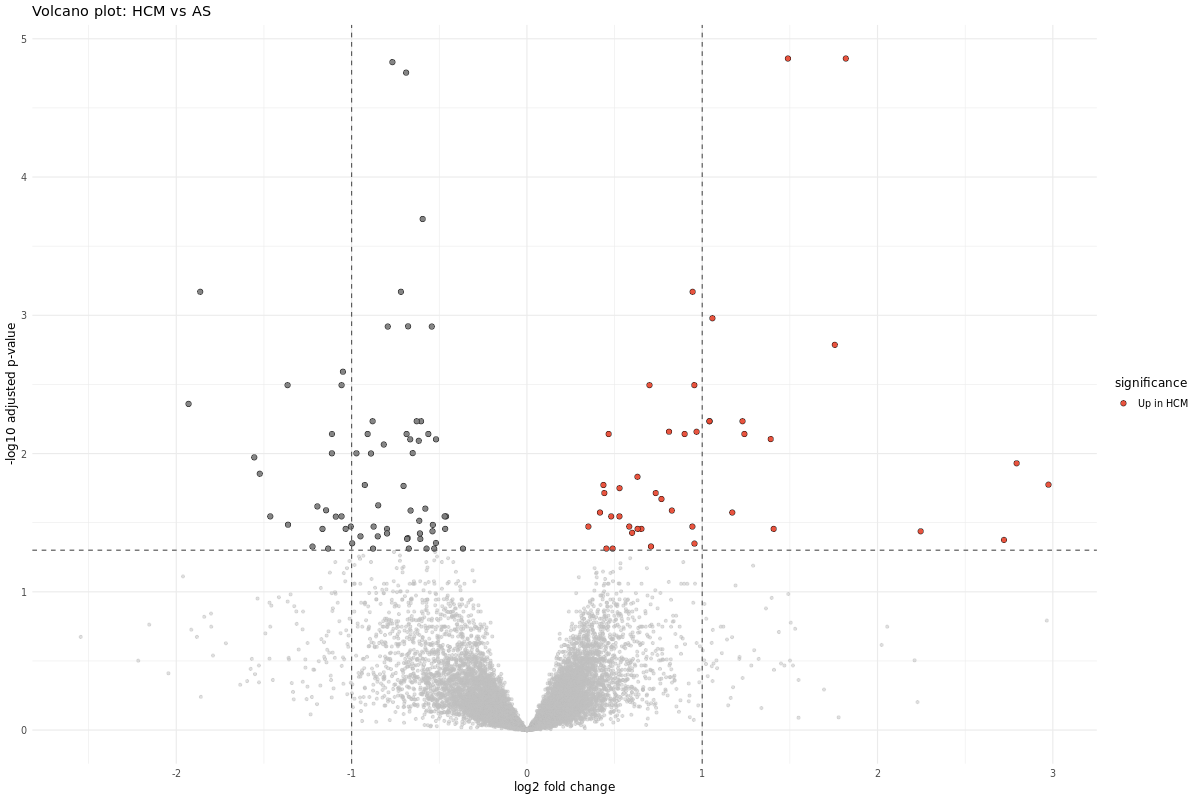
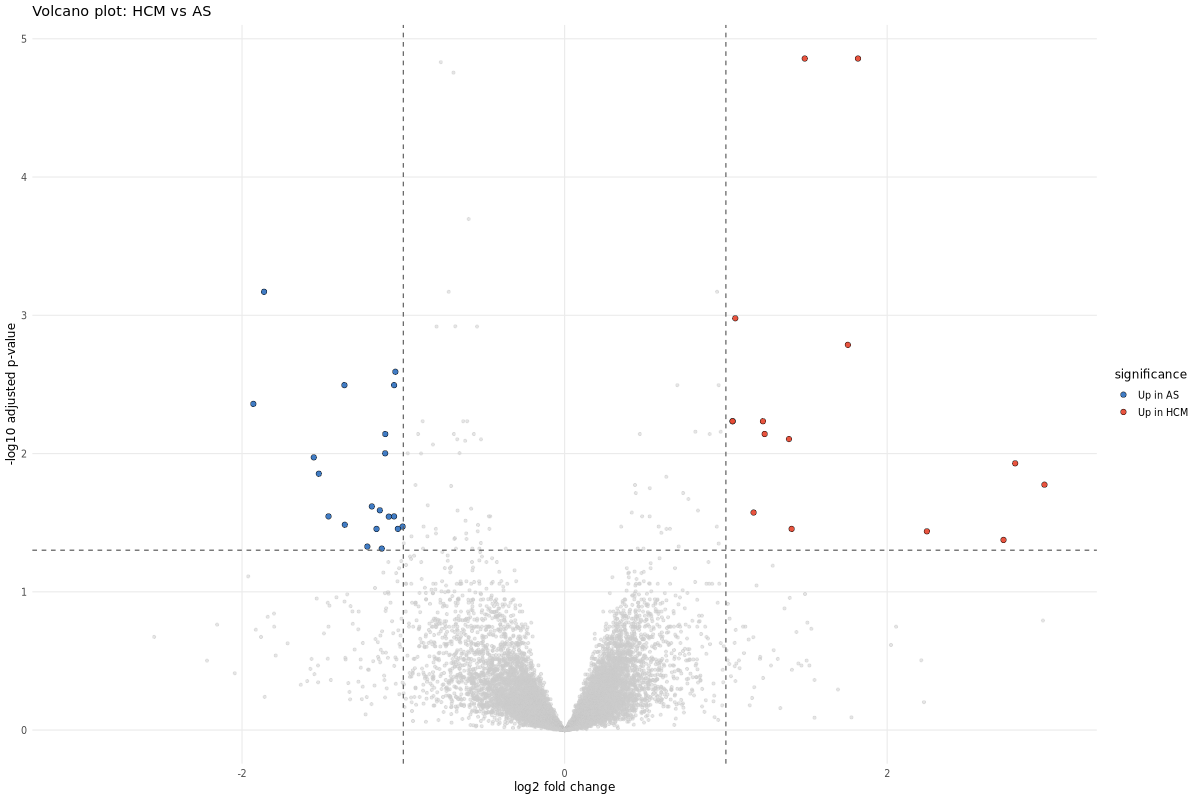
Clean up: fix script 01 paths, env name, volcano figure, README limitations

diff --git a/README.md b/README.md
@@ -123,3 +123,5 @@ The associated study also included genome-wide DNA methylation analysis, but thi
 - comparison between two pathological states rather than disease versus healthy tissue
 - biological conclusions should be interpreted as transcriptomic associations rather than causal mechanisms
 - analysis starts from public processed gene-level counts rather than raw FASTQ files
+- the differential-expression design models condition only (`~ condition_short`) and does not adjust for sex or age, which are available in the metadata; given the small sample size these potential confounders are not modelled, so some differences may partly reflect demographic imbalance between groups
+- exploratory analysis (PCA, sample-distance heatmap) shows no clear global separation between HCM and AS, indicating the transcriptomic differences are subtle and confined to a limited set of genes rather than a genome-wide shift